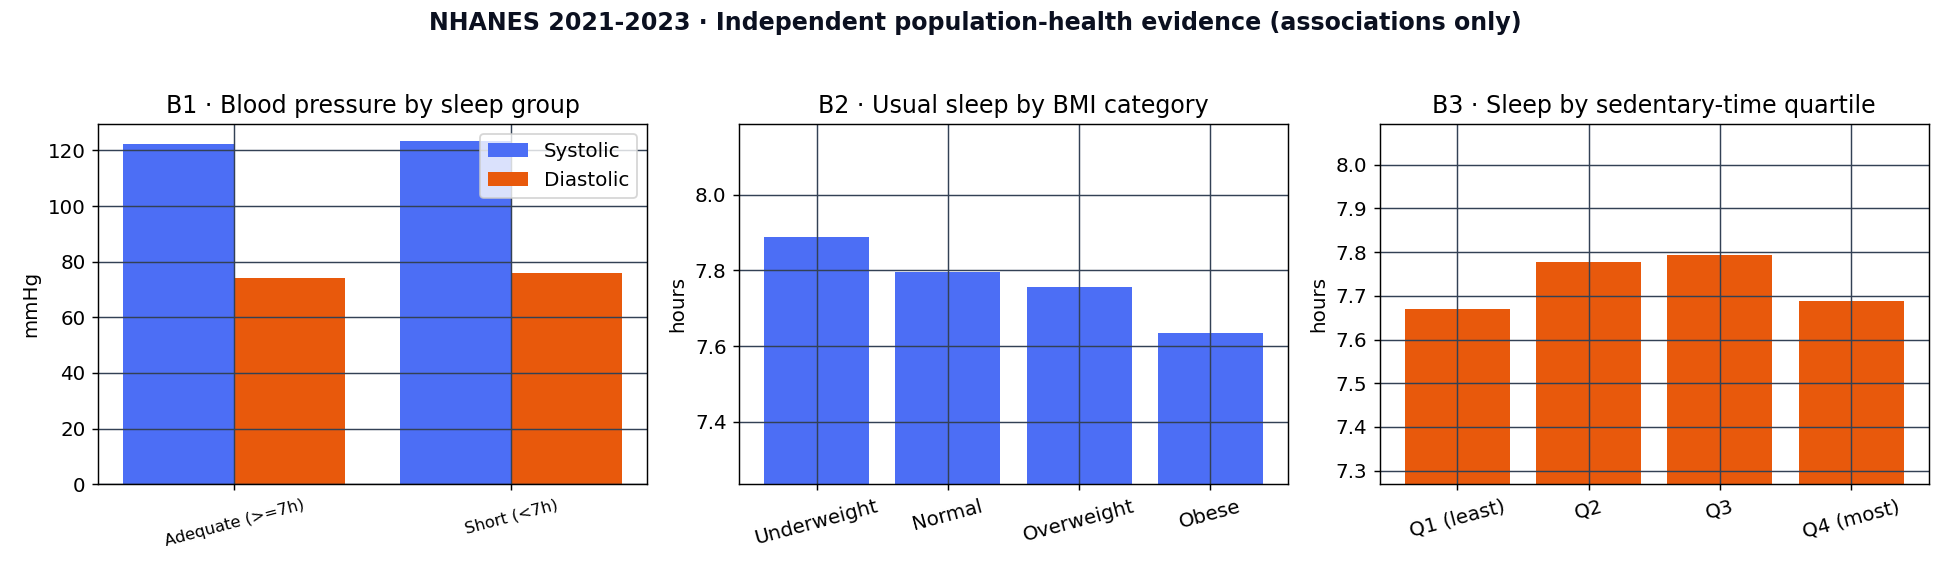
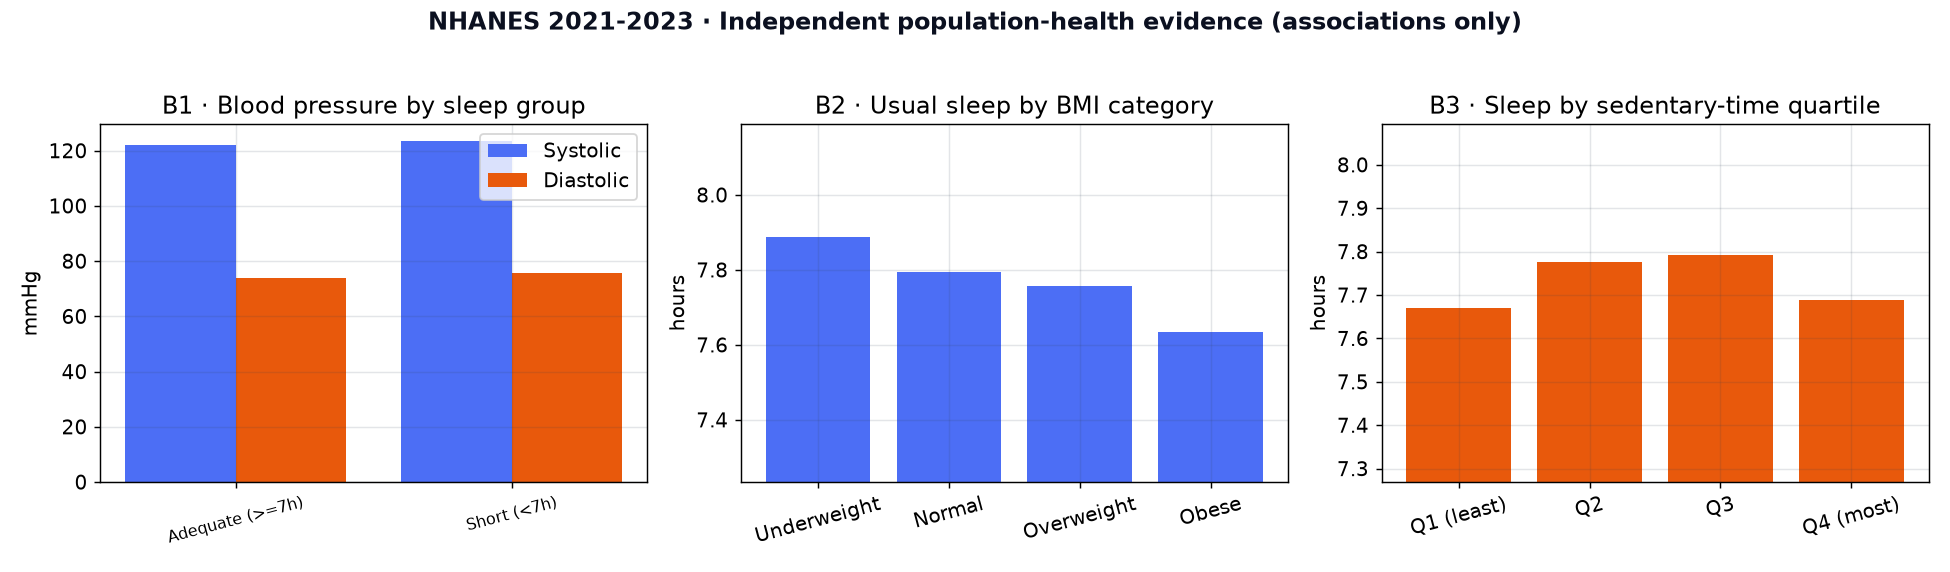
Correct synthetic-data claims and add reproducible integrity checks

diff --git a/scripts/build_nhanes_evidence.py b/scripts/build_nhanes_evidence.py
@@ -95,8 +95,10 @@ def build() -> dict:
     mod = pd.to_numeric(df["PAD800"], errors="coerce").where(lambda s: s <= 840)
     vig = pd.to_numeric(df["PAD820"], errors="coerce").where(lambda s: s <= 840)
     df["activity_min"] = mod.fillna(0) + vig.fillna(0)
-    df["activity_group"] = np.where(df["activity_min"] >= 30, "Meets activity (>=30 min/day)",
-                                    "Below activity floor (<30 min/day)")
+    df.loc[mod.isna() & vig.isna(), "activity_min"] = np.nan
+    df["activity_group"] = np.where(df["activity_min"].isna(), None,
+                                    np.where(df["activity_min"] >= 30, "Reported >=30 min per occasion",
+                                             "Reported <30 min per occasion"))
     df["short_sleep"] = np.where(df["sleep_hours"] < 7, "Short (<7h)", "Adequate (>=7h)")
     df["survey_weight"] = pd.to_numeric(df["WTMEC2YR"], errors="coerce").fillna(pd.to_numeric(df["WTINT2YR"], errors="coerce"))
     df["psu"] = pd.to_numeric(df["SDMVPSU"], errors="coerce")
@@ -108,8 +110,8 @@ def build() -> dict:
                      "role": "Secondary, independent population-health evidence (not linked to primary respondents)",
                      "analytic_adults": int(len(df)),
                      "survey_design": {"weight": "WTMEC2YR (fallback WTINT2YR)", "strata": "SDMVSTRA", "psu": "SDMVPSU",
-                                       "estimation": "weight-adjusted means and WLS regression with PSU-clustered covariance and stratum fixed effects"},
-                     "note": "Cross-sectional survey; associations only, no causal or clinical claims."}
+                                       "estimation": "weight-adjusted means and age/sex-adjusted WLS regression with PSU-clustered covariance and stratum fixed effects; approximate, not full complex-survey variance"},
+                     "note": "Cross-sectional survey. PAD800/PAD820 are per-occasion duration; their sum is not daily activity or guideline adherence. Associations only."}
 
     bp = df.dropna(subset=["systolic", "diastolic"])
     bp_tbl = pd.DataFrame([{"sleep_group": g, "n": int(len(s)),
@@ -140,13 +142,14 @@ def build() -> dict:
     design_bp["stratum_psu"] = design_bp["stratum"].astype(str) + ":" + design_bp["psu"].astype(str)
     design_models = {}
     for outcome in ["systolic", "diastolic"]:
-        fit = smf.wls(f"{outcome} ~ C(short_sleep) + C(stratum)", data=design_bp,
+        fit = smf.wls(f"{outcome} ~ C(short_sleep) + RIDAGEYR + C(RIAGENDR) + C(stratum)", data=design_bp,
                       weights=design_bp["survey_weight"]).fit(cov_type="cluster", cov_kwds={"groups": design_bp["stratum_psu"]})
         term = "C(short_sleep)[T.Short (<7h)]"
         design_models[outcome] = {"short_sleep_coefficient": float(fit.params.get(term, np.nan)),
                                   "short_sleep_p": float(fit.pvalues.get(term, np.nan)),
                                   "stratum_psu_clusters": int(design_bp["stratum_psu"].nunique()),
-                                  "strata": int(design_bp["stratum"].nunique())}
+                                  "strata": int(design_bp["stratum"].nunique()),
+                                  "adjusted_for": "age and recorded sex; PSU-clustered WLS approximation"}
     summary["B1_sleep_blood_pressure"]["design_aware"] = design_models
 
     bmi_sub = df.dropna(subset=["bmi_category"])

diff --git a/app_pages/data_audit.py b/app_pages/data_audit.py
@@ -8,7 +8,7 @@ from night_signals.viz import COLORS, finish
 
 page_intro(
     "Dataset provenance and quality audit",
-    "The raw survey is preserved unchanged; this page documents structure, missingness, ranges, duplicates, target balance, and the variable-level leakage audit.",
+    "The public synthetic dataset is preserved unchanged; this page documents structure, missingness, ranges, duplicates, target balance, and the variable-level leakage audit.",
     ":material/fact_check:",
 )
 
@@ -63,7 +63,7 @@ for column in raw.columns:
     if column in POST_OUTCOME_COLUMNS:
         leakage.append({"variable": column, "prediction use": "Excluded", "reason": "Outcome, post-outcome, identifier, or target field"})
     else:
-        leakage.append({"variable": column, "prediction use": "Candidate", "reason": "Available before the modeled sleep outcome, subject to timing audit"})
+        leakage.append({"variable": column, "prediction use": "Timing unverified", "reason": "The cross-sectional source supplies no observation timestamp or questionnaire wording"})
 st.dataframe(leakage, hide_index=True, alt="Variable-level leakage audit for poor-sleep prediction")
 
 st.subheader("Range and outlier audit", icon=":material/rule:")
@@ -75,9 +75,9 @@ with st.container(border=True):
     st.markdown(
         """
         - **Primary:** *Sleep and Doomscrolling Habits Dataset*, Kaggle, dataset author Harpartap Singh; 1,000 public rows.
-        - **Design:** treated as a self-reported, cross-sectional survey.
-        - **Unresolved:** sampling frame, respondent population, recruitment, and generation procedure are not sufficiently documented in the source metadata available to this project.
-        - **Policy:** the project does not call the data clinically representative or causal, and does not assert that it is synthetic or non-synthetic without source confirmation.
+        - **Design:** the uploader describes the records as synthetic. This project did not conduct a survey.
+        - **Unresolved:** exact generation procedure, source revision, item wording, and predictor timing.
+        - **Interpretation:** associations and model scores describe this file, not a sampled population.
         """
     )
 footer()

diff --git a/scripts/audit_research_claims.py b/scripts/audit_research_claims.py
@@ -1,0 +1,43 @@
+"""Recompute descriptive claim checks from the immutable primary CSV."""
+from pathlib import Path
+
+import pandas as pd
+from scipy.stats import chi2_contingency
+from statsmodels.stats.multitest import multipletests
+
+ROOT = Path(__file__).resolve().parents[1]
+DATA = ROOT / "data/sleep_doomscrolling_habits.csv"
+OUT = ROOT / "outputs/tables"
+
+
+def main() -> None:
+    df = pd.read_csv(DATA)
+    target = df["sleep_quality_category"]
+    score = pd.crosstab(target, df["sleep_quality_score"], dropna=False)
+    score.to_csv(OUT / "target_quality_score_crosstab.csv")
+    rows = []
+    for field in ["bedtime_routine_type", "uses_night_mode", "keeps_phone_in_bedroom",
+                  "consumes_negative_news_content", "doomscroller"]:
+        pair = df[[field, "sleep_quality_category"]].dropna()
+        table = pd.crosstab(pair[field], pair["sleep_quality_category"])
+        chi2, p, _, expected = chi2_contingency(table)
+        v = (chi2 / (len(pair) * min(table.shape[0] - 1, table.shape[1] - 1))) ** .5
+        rows.append({"variable": field, "n": len(pair), "chi2_p": p,
+                     "cramers_v": v, "minimum_expected_cell": expected.min()})
+    tests = pd.DataFrame(rows)
+    tests["p_fdr_bh"] = multipletests(tests.chi2_p, method="fdr_bh")[1]
+    tests.to_csv(OUT / "habit_association_tests.csv", index=False)
+    habit = df.groupby("bedtime_routine_type", dropna=False).agg(
+        n=("sleep_quality_category", "size"),
+        good_share=("sleep_quality_category", lambda x: x.eq("Good").mean()),
+        poor_share=("sleep_quality_category", lambda x: x.eq("Poor").mean()),
+        mean_bedtime_screen_min=("bedtime_screen_time_minutes", "mean"),
+    )
+    habit.to_csv(OUT / "routine_outcomes.csv")
+    print("Poor with quality score 5:", int(score.loc["Poor", 5.0]), "/", int(target.eq("Poor").sum()))
+    print(tests.to_string(index=False))
+    print(habit.to_string())
+
+
+if __name__ == "__main__":
+    main()

diff --git a/scripts/train_production_model.py b/scripts/train_production_model.py
@@ -243,7 +243,7 @@ def main():
     export_bundle(joblib.load(artifact), MODELS / "poor_sleep_preoutcome_model.json")
     digest = hashlib.sha256(artifact.read_bytes()).hexdigest()
     summary = {"model_version": version, "selected_model": selected_name,
-               "prediction_moment": "At bedtime, before sleep outcomes occur",
+               "prediction_moment": "Hypothetical; cross-sectional source does not verify predictor timing",
                "development_rows": len(X_dev), "untouched_holdout_rows": len(X_holdout),
                "positive_prevalence": float(y.mean()), "majority_baseline_accuracy": float(1-y.mean()),
                "nested_cv": comparison.iloc[0].to_dict(), "decision_threshold": threshold,
@@ -254,7 +254,7 @@ def main():
     (TABLES / "production_model_summary.json").write_text(json.dumps(summary, indent=2, default=float), encoding="utf-8")
     (ROOT / "outputs/tables/model_registry.json").write_text(json.dumps({"active": version, "models": [{"version": version,
         "status": "internal-validation-only", "artifact_sha256": digest, "metrics": holdout,
-        "trained_on": "self-reported primary survey; provenance unresolved; n=750 development", "external_validation": False}]}, indent=2), encoding="utf-8")
+        "trained_on": "public Kaggle synthetic records; n=750 development", "external_validation": False}]}, indent=2), encoding="utf-8")
     (ROOT / "outputs/tables/prediction_schema.json").write_text(json.dumps({"version": version, "features": features,
         "defaults": defaults, "ranges": ranges, "categories": categories,
         "drift_baseline": drift_baseline}, indent=2), encoding="utf-8")

diff --git a/app_pages/landing.py b/app_pages/landing.py
@@ -17,13 +17,13 @@ with st.container(horizontal=True, gap="large", vertical_alignment="center"):
         st.html('<div class="ns-landing-kicker">[ evidence entry ]</div>')
         st.html('<div class="ns-landing-title">Night<br><em>Signals</em></div>')
         st.html('<div class="ns-landing-tagline">Your sleep, translated into the signal behind the scroll. An evidence-led atlas of nighttime digital behaviour, sleep quality, resilience, and independent health signals.</div>')
-        st.html('<div class="ns-landing-stat">1,000 respondents <span>/</span> 29 analytic variables</div>')
+        st.html('<div class="ns-landing-stat">1,000 synthetic records <span>/</span> 29 analytic variables</div>')
         st.html('<div class="ns-landing-rule"></div>')
         with st.container(horizontal=True, gap="small"):
             if st.button("Proceed to analysis", type="primary", icon=":material/arrow_forward:", width="stretch"):
                 st.switch_page("app_pages/overview.py")
             if st.button("Access methodology", icon=":material/menu_book:", width="stretch"):
                 st.switch_page("app_pages/workflow.py")
-        st.html('<div class="ns-landing-footnote">Self-reported survey · observational analysis · no causal or clinical claims</div>')
+        st.html('<div class="ns-landing-footnote">Public Kaggle dataset · synthetic records · no population or clinical claims</div>')
 
 footer()

diff --git a/app_pages/resilience.py b/app_pages/resilience.py
@@ -18,12 +18,12 @@ with st.container(horizontal=True):
     st.metric("Poor sleep", f"{len(poor):,}", border=True)
     st.metric("Favorable share", f"{len(good) / len(high):.1%}" if len(high) else "—", border=True)
 
-effects = read_csv_artifact("exception_effect_sizes.csv")
 with st.container(border=True):
-    st.subheader("High-exposure exception profile", icon=":material/compare_arrows:")
-    st.dataframe(effects, hide_index=True, alt="Effect sizes comparing favorable and poor sleepers within the high-exposure group")
+    st.subheader("Exploratory behavioral contrasts", icon=":material/compare_arrows:")
+    st.caption("Sleep duration, latency, debt and fatigue define or closely track the outcome and are excluded from protective-factor interpretation. Small favorable group; no causal inference.")
 
 test = resilience_effects(df)
+st.dataframe(test, hide_index=True, alt="Behavioral contrasts with group sizes and false-discovery-rate adjusted p-values")
 st.subheader("Exploratory factor comparison", icon=":material/science:")
 fig = px.bar(test, x="cohens_d", y="factor", orientation="h", color="p_fdr_bh", color_continuous_scale=["#f6c177", "#5eead4"], labels={"cohens_d": "Cohen's d", "factor": "Factor", "p_fdr_bh": "FDR-adjusted p"})
 st.plotly_chart(fig, alt="Exploratory standardized differences between favorable and poor high-exposure respondents", config={"displaylogo": False})

diff --git a/app_pages/nhanes.py b/app_pages/nhanes.py
@@ -15,7 +15,7 @@ with st.container(horizontal=True):
     st.metric("BMI–sleep Spearman rho", f"{summary['B2_sleep_by_bmi']['spearman_bmi_vs_sleep']:.2f}", border=True)
 
 st.caption(
-    "NHANES estimates use MEC weights, stratum fixed effects, and stratum–PSU clustered covariance. "
+    "NHANES estimates use MEC weights, age and sex adjustment, stratum fixed effects, and stratum–PSU clustered covariance (survey-design approximation). "
     f"Design-aware p-values: systolic {design_bp.get('systolic', {}).get('short_sleep_p', float('nan')):.3g}; "
     f"diastolic {design_bp.get('diastolic', {}).get('short_sleep_p', float('nan')):.3g}.",
     help="These are weighted associations, not causal or clinical estimates.",
@@ -29,4 +29,5 @@ with right.container(border=True):
     fig = px.bar(summary["B3_sleep_by_activity"]["active_groups"], x="activity_group", y="mean_sleep_hours", labels={"activity_group": "Activity group", "mean_sleep_hours": "Mean sleep (hours)"})
     st.plotly_chart(fig, alt="Mean sleep hours by activity group in NHANES", config={"displaylogo": False})
 st.warning(summary["note"], title="Interpretation boundary", icon=":material/warning:")
+st.caption("The activity comparison is descriptive; its direction does not support a claim that more activity predicts longer sleep in this sample.")
 footer()

diff --git a/night_signals/ui.py b/night_signals/ui.py
@@ -222,7 +222,7 @@ def inject_brand_surface() -> None:
 
 def hero(kicker: str, title: str, body: str, class_name: str = "ns-overview-hero") -> None:
     st.html(
-        f'<section class="ns-hero {class_name}"><img class="ns-hero-art" src="{_hero_art_uri()}" alt="Nighttime phone use and signal network visual"><div class="ns-hero-content"><div class="ns-kicker">{kicker}</div><h1>{title}</h1><p>{body}</p><div class="ns-hero-meta"><span class="ns-chip">1,000 respondents</span><span class="ns-chip">3 evidence layers</span><span class="ns-chip">Internal validation</span></div></div></section>'
+        f'<section class="ns-hero {class_name}"><img class="ns-hero-art" src="{_hero_art_uri()}" alt="Nighttime phone use and signal network visual"><div class="ns-hero-content"><div class="ns-kicker">{kicker}</div><h1>{title}</h1><p>{body}</p><div class="ns-hero-meta"><span class="ns-chip">1,000 synthetic records</span><span class="ns-chip">3 separate data layers</span><span class="ns-chip">Internal validation</span></div></div></section>'
     )
 
 

diff --git a/RESEARCH_INTEGRITY.md b/RESEARCH_INTEGRITY.md
@@ -1,0 +1,22 @@
+# Research integrity and interpretation
+
+The primary Kaggle uploader describes the 1,000 records as synthetic. This project did not collect a survey. The categories, correlations and model metrics characterize this file; they are not estimates for a real population. Source and checksum: `data/PROVENANCE.md`.
+
+## Explicit research questions and analysis rules
+
+The following are exploratory checks, specified here after the dataset and prior outputs were inspected. They are **not preregistered hypotheses**. Recompute with `python scripts/audit_research_claims.py`.
+
+1. Are bedtime routine categories associated with Good/Fair/Poor labels? Pearson chi-square and Cramer's V.
+2. Are night mode, phone location, negative-news exposure, and the doomscroller label associated with the category? The same tests.
+3. Apply Benjamini–Hochberg FDR to these five tests as one family. Report effect size and group sizes regardless of significance.
+4. Inspect the category × numeric quality-score crosstab as a construct-validity check.
+
+The routine comparison is unadjusted and confounded by exposure. Reading has a lower Good share than the file-wide base rate; the "no fixed routine" group has the highest Good share. Neither reading nor meditation can be called protective from this table. Negative-news exposure must be reported even if its association is null. The high-exposure favorable-sleep subgroup is small; differences in sleep duration, latency, debt and fatigue follow from its outcome definition and do not identify protective factors. Exercise and routine contrasts are exploratory.
+
+The current model excludes sleep outcome columns and uses nested development validation. It does not establish predictor availability at bedtime. `phone_checks_per_night` may occur after sleep onset. Earlier model versions reported holdout scores and overlap with the current split cannot be ruled out. Treat the 250-row score as an internal benchmark, not a prospectively untouched test. External model validation has not been performed.
+
+The raw quality score contradicts the Poor category for 213 of 330 Poor records (score 5/5). The target's construction is undocumented. A model trained on this label learns its encoding, not an established sleep disorder. The current holdout balanced accuracy is 0.75965 (95% bootstrap interval 0.70416–0.81551) at threshold 0.335. This supersedes the stale 77.5% text in earlier reports.
+
+NHANES has no matching doomscrolling exposure and PhysioNet participants are unrelated to the Kaggle records. Their findings are background context only. The NHANES WLS model with stratum fixed effects and clustered PSU covariance is an approximation to complex-survey inference; it is not a full design-based analysis. PAD800/PAD820 record minutes per occasion, not minutes per day. The direction of the activity association should be reported without a protective interpretation.
+
+Legacy figures and the PDF document earlier experiments, including a three-class model with sleep outcomes. They must not be cited as evidence for the current binary model. Use `outputs/tables/production_model_summary.json` as the metric source until the report is regenerated from the current pipeline.

diff --git a/README.md b/README.md
@@ -12,6 +12,8 @@ python -m ipykernel install --user --name python3 --display-name "Python 3 (Nigh
 streamlit run streamlit_app.py
 ```
 
+The saved joblib artifact was serialized with scikit-learn 1.5.2. Use the pinned `requirements-training.txt` for artifact tests or retraining; an existing virtual environment with a newer scikit-learn may fail to unpickle it. The portable JSON artifact supports the Streamlit inference path.
+
 The application is Streamlit-only. The canonical source tree is `data/`, `night_signals/`, `app_pages/`, `notebooks/`, `scripts/`, and `outputs/`.
 
 ## Research workflow
@@ -23,11 +25,13 @@ The application is Streamlit-only. The canonical source tree is `data/`, `night_
 5. Execute notebooks sequentially with Jupyter or `nbconvert`.
 6. Run `pytest -q` and open the Streamlit app.
 
+For reproducible claim checks, run `python scripts/audit_research_claims.py`. It writes the target-score crosstab, routine shares, and five FDR-adjusted association tests to `outputs/tables/`. Historical notebook and PDF outputs are legacy artifacts; see `RESEARCH_INTEGRITY.md` before citing them.
+
 ## Scientific boundary
 
-The primary dataset is self-reported and cross-sectional. Its acquisition and sampling provenance remain incomplete. Results are descriptive or internally validated predictive results, not causal, clinical, or externally validated claims. NHANES and PhysioNet are independent evidence layers and are never row-merged with the primary survey.
+The primary file is a public Kaggle dataset described by its uploader as synthetic; we did not collect a survey. Its item-generation process and observation times are undocumented. Results describe this file and an internally validated label-recovery exercise, not population effects or clinical risk. NHANES and PhysioNet are separate context layers, never validation of the classifier. See `data/PROVENANCE.md`, `DATA_DICTIONARY.md`, and `RESEARCH_INTEGRITY.md`.
 
-The poor-sleep model uses a fixed pre-outcome feature set, nested development validation, an untouched holdout, calibration, threshold selection, bootstrap intervals, and subgroup diagnostics. It is not a medical device and must not be used for individual decisions.
+The poor-sleep model excludes measured sleep outcomes and uses nested development validation, calibration, threshold selection, bootstrap intervals, and subgroup diagnostics. The one-record-per-row file cannot prove a real bedtime prediction moment; earlier experiments may have accessed overlapping holdout rows. The model is an educational label-recovery exercise and must not be used for individual decisions.
 
 ## Repository map
 

diff --git a/MODEL_CARD.md b/MODEL_CARD.md
@@ -2,14 +2,14 @@
 
 ## Intended use
 
-Educational demonstration of a pre-outcome risk model evaluated on a self-reported survey. The prediction moment is bedtime, after exposure/context variables are known and before sleep duration, latency, wakeups, fatigue, sleep debt, or sleep-quality outcomes occur.
+Educational demonstration of recovering a Poor label in a public dataset described by its uploader as synthetic. Sleep outcome columns are excluded. The cross-sectional file does not establish a real bedtime prediction moment or the timing of nighttime phone checks.
 
 This model is not medical advice, is not externally validated, and must not be used for diagnosis, treatment, employment, insurance, or automated decisions about people.
 
 ## Evaluation design
 
-- 1,000 self-reported survey rows; 750 development and 250 final holdout rows.
-- The holdout was created before model comparison and opened once.
+- 1,000 synthetic records; 750 development and 250 holdout rows in the current protocol.
+- The current script splits before fitting. Earlier experiments may have inspected overlapping rows; an "opened once" claim cannot be verified.
 - Candidate families were tuned inside five-fold nested cross-validation on development data.
 - Candidate comparison includes Logistic Regression, Random Forest, Extra Trees, Gradient Boosting, and RBF SVM.
 - The selected Logistic Regression was sigmoid-calibrated.
@@ -19,14 +19,14 @@ This model is not medical advice, is not externally validated, and must not be u
 
 - Majority baseline accuracy: 67.0%.
 - Nested-CV balanced accuracy: 73.7% ± 4.1 percentage points.
-- Untouched-holdout balanced accuracy: 77.5% (bootstrap 95% CI 71.8–82.8%).
+- Current holdout balanced accuracy: 75.96% (bootstrap 95% CI 70.42–81.55%).
 - Holdout ROC AUC: 82.5% (95% CI 77.0–87.6%).
 - Holdout PR AUC: 72.0%; Brier score: 0.155.
-- Sensitivity: 75.9%; specificity: 79.0% at threshold 0.32.
+- Sensitivity: 72.29%; specificity: 79.64% at threshold 0.335.
 
 ## Known limitations
 
-- This self-reported survey has partially documented provenance and unverified sampling, so it is not representative of any specific population.
+- The uploader describes the records as synthetic; population inference is not supported. The category label conflicts with the 1–5 quality score for many rows.
 - No independent, temporal, prospective, geographic, or clinical validation has been performed.
 - Self-reported exposures may be measured with error.
 - Subgroup results are diagnostic only because the final holdout is small.

diff --git a/DATA_DICTIONARY.md b/DATA_DICTIONARY.md
@@ -1,0 +1,20 @@
+# Primary file data dictionary and timing limits
+
+Source: [public Kaggle dataset](https://www.kaggle.com/datasets/harpartapsingh13/sleep-and-doomscrolling-habits-dataset), described by its uploader as synthetic. The CSV supplies column names and values, but no original questionnaire, item wording, collection time, recall period, or generator specification. The descriptions below are interpretations of names and observed value ranges, **not verified survey definitions**.
+
+| Fields | Apparent unit or coding | Timing evidence |
+| --- | --- | --- |
+| `respondent_id` | Record identifier | Unknown; exclude from models |
+| `age`, `gender`, `occupation_status`, `country_region` | Years; categories | Static/context; unverified |
+| `primary_device` | Category | Unknown |
+| `total_daily_screen_time_hours` | Hours/day, by name | Recall period unknown |
+| `bedtime_screen_time_minutes`, `doomscroll_sessions_per_night`, `avg_doomscroll_session_minutes`, `phone_checks_per_night` | Minutes, counts, minutes, counts | No timestamp; phone checks may occur after sleep onset |
+| `doomscroller`, `consumes_negative_news_content`, `uses_night_mode`, `keeps_phone_in_bedroom`, `uses_sleep_tracking_app` | Yes/No labels | No observation timestamp; self-label may encode target rule |
+| `number_of_news_apps_used`, `days_since_last_digital_detox` | Count; days | Unknown |
+| `bedtime_routine_type` | Category | Unknown |
+| `exercise_minutes_per_day` | Minutes/day, by name | Unknown recall period |
+| `anxiety_score`, `stress_score` | Unspecified numeric score | Scale wording and timing unknown |
+| `sleep_hours_per_night`, `sleep_latency_minutes`, `number_of_night_wakeups`, `weekly_sleep_debt_hours`, `daytime_fatigue_score`, `sleep_quality_score` | Hours, minutes, count, hours/week, unspecified score, 1–5 score | Sleep outcomes or possible downstream measures; excluded from production predictors |
+| `sleep_quality_category` | Good/Fair/Poor | Target label; derivation undocumented |
+
+Run `python scripts/audit_research_claims.py` to inspect the category/score disagreement. Missing item wording means no predictor can be asserted to be available at an actual bedtime decision point. `phone_checks_per_night` and the `doomscroller` self-label warrant ablation before any prospective interpretation.
